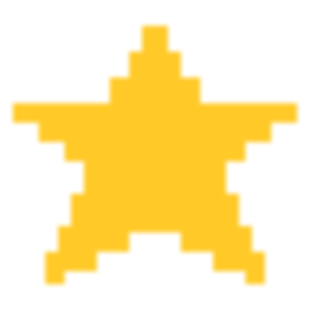
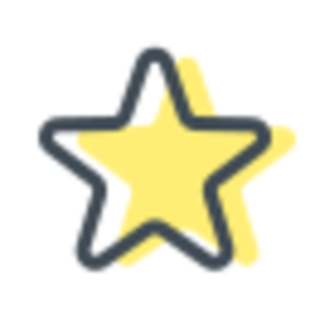
V1.1.0 update (#6)
* Added legends for symbols in courses, updated README, wording tweaks

* Added legend for IndexEditOverview

* Clearer screenshots

* Update README.md

* Updated screenshots

* Update README.md

* Added loading message to spinner

* Edited changelog

* Updated version on SettingsPage

* Updated favicon

* Updated changelog

* fixed crash when courses with no lessons are selected

* changed DataRetriever to use live api

* Added popover for legend in course database

* Tweaked button for legend

* Tidier code for button

* Updated screenshots

diff --git a/client/src/components/CourseDatabase.js b/client/src/components/CourseDatabase.js
@@ -1,5 +1,6 @@
 import React, { useState, useContext } from 'react';
 
+import Container from 'react-bootstrap/Container';
 import Row from 'react-bootstrap/Row';
 import Col from 'react-bootstrap/Col';
 import Card from 'react-bootstrap/Card';
@@ -7,6 +8,8 @@ import ListGroup from 'react-bootstrap/ListGroup';
 import Button from 'react-bootstrap/Button';
 import Spinner from 'react-bootstrap/Spinner';
 import Form from 'react-bootstrap/Form';
+import OverlayTrigger from 'react-bootstrap/OverlayTrigger';
+import Popover from 'react-bootstrap/Popover';
 
 import { SelectedCoursesContext } from '../contexts/SelectedCoursesContext';
 import { CoursesContext } from '../contexts/CoursesContext';
@@ -14,9 +17,6 @@ import { CustomisationContext } from '../contexts/CustomisationContext';
 
 function CourseDatabase() {
 
-  /* courses -> List of ALL courses in NTU, retrieved from server
-     acadSem -> Current semester in NTU
-     addSelection -> For adding course to currently selected courses  */
   const { addSelection } = useContext(SelectedCoursesContext);
   const { courses, acadSem } = useContext(CoursesContext);
   const { customOptions } = useContext(CustomisationContext);
@@ -30,16 +30,25 @@ function CourseDatabase() {
   const dynamicSearch = () => {
     return courses.filter(course => course.courseName.toLowerCase().includes(searchTerm.toLowerCase()) || course.courseCode.toLowerCase().includes(searchTerm.toLowerCase()));
   }
+
+  const popover = (
+    <Popover id="popover-basic">
+      <Popover.Header as="h3">Legend</Popover.Header>
+      <Popover.Body style={{whiteSpace:"pre-line"}}>
+        {"* : Available as UEs\n~ : Available as BDEs\n^ : Self-paced Course\n# : Available as GERPEs"}
+      </Popover.Body>
+    </Popover>
+  );
   
   return (
     <Card className={`retrievedCourses ${customOptions.displaySetting}`} style={{height: "30rem"}} border={customOptions.displaySetting === "lightMode" ? "" : "secondary"}>
       <Card.Header className="database-title font-weight-bold">
         <Row className="align-items-center">
-          <Col sm={8} xs={9}> 
+          <Col sm={7} xs={9}> 
             Courses Available 
             { acadSem ? ` (AY${acadSem.year}-${((parseInt(acadSem.year)+1)+"").substring(2)} Sem ${acadSem.sem})` : ""}
           </Col>
-          <Col sm={4} xs={12}>
+          <Col sm={4} xs={10}>
             <Form className="d-flex ml-auto">
               <Form.Control 
               placeholder="Search course code/name" 
@@ -47,12 +56,32 @@ function CourseDatabase() {
               onChange={handleInput} />
             </Form>
           </Col>
+          <Col sm={1} xs={1} className="d-flex justify-content-center">
+            <OverlayTrigger
+              trigger="click"
+              placement="left"
+              delay={{ show: 250, hide: 400 }}
+              overlay={popover}
+            >
+              <Button 
+              size = "sm" 
+              variant="none" 
+              style={{fontWeight: "bold", color: "white", border: "1.5px solid white", borderRadius: "40px"}}>
+                &nbsp;?&nbsp;
+              </Button>
+            </OverlayTrigger>
+          </Col>
         </Row>
       </Card.Header>
       {courses.length === 0 ? 
-        <Spinner animation="border" role="status" variant="secondary" style={{ margin: 'auto' }}>
-          <span className="sr-only">Loading...</span>
-        </Spinner> :
+        <Container className="d-flex flex-column justify-content-center align-items-center h-100">
+          <Spinner animation="grow" role="status" variant="secondary">
+            <span className="sr-only">Loading...</span>
+          </Spinner> 
+          <Row className="text-center pt-1">
+            Almost there...
+          </Row>
+        </Container> :
 
         <ListGroup variant="flush" className="overflow-auto">
           {dynamicSearch().map(course => {

diff --git a/client/src/pages/SettingsPage.js b/client/src/pages/SettingsPage.js
@@ -3,7 +3,7 @@ import React, { useContext, useState } from 'react';
 import Container from 'react-bootstrap/Container';
 import Row from 'react-bootstrap/Row';
 import Form from 'react-bootstrap/Form';
-import ListGroup from 'react-bootstrap/ListGroup'
+import ListGroup from 'react-bootstrap/ListGroup';
 
 import { CustomisationContext } from '../contexts/CustomisationContext';
 
@@ -58,7 +58,7 @@ function SettingsPage() {
         <ListGroup.Item className={customOptions.displaySetting}>Automatic Timetable Generation</ListGroup.Item>
         <ListGroup.Item className={customOptions.displaySetting}>Waitlist and Vacancy Details included (Only from 10am-10pm)</ListGroup.Item>
         <ListGroup.Item className={customOptions.displaySetting}>Fixing of Specific Indexes</ListGroup.Item>
-        <ListGroup.Item className={customOptions.displaySetting}>Editing of Timetable Plans</ListGroup.Item>
+        <ListGroup.Item className={customOptions.displaySetting}>Editing and Saving of Timetable Plans</ListGroup.Item>
         <ListGroup.Item className={customOptions.displaySetting}>Advanced Options: Choosing Free Times, No Back To Back Lessons</ListGroup.Item>
       </ListGroup>
 
@@ -82,7 +82,7 @@ function SettingsPage() {
         may the force be with you
       </Row>
       <Row className="d-flex justify-content-center font-italic">
-        ~ Build V1.0.0 ~
+        ~ Version 1.1.0 ~
       </Row>
       <Row className="d-flex justify-content-center font-italic">
         <span className="text-center">
@@ -98,7 +98,7 @@ function SettingsPage() {
       </Row>
       <Row className="d-flex justify-content-center font-italic pb-4">
         <span className="text-center">
-          <a target="_blank" rel="noopener noreferrer" href="https://icons8.com/icon/121624/pixel-star">Pixel Star</a>
+          <a target="_blank" rel="noopener noreferrer" href="https://icons8.com/icon/70836/star-filled">Star Filled</a>
           &nbsp;icon by&nbsp;
           <a target="_blank" rel="noopener noreferrer" href="https://icons8.com">Icons8</a>
         </span>

diff --git a/client/src/components/overviews/IndexEditOverview.js b/client/src/components/overviews/IndexEditOverview.js
@@ -3,6 +3,7 @@ import React, { useContext, useEffect, useState } from 'react';
 import Row from 'react-bootstrap/Row';
 import Col from 'react-bootstrap/Col';
 import Table from 'react-bootstrap/Table';
+import ListGroup from 'react-bootstrap/ListGroup';
 
 import { CurrentPlanContext } from '../../contexts/CurrentPlanContext';
 import { CustomisationContext } from '../../contexts/CustomisationContext';
@@ -59,7 +60,7 @@ function IndexEditOverview() {
           <tr>
             <th scope="col">#</th>
             <th scope="col">Index/Waitlist/Vacancy</th>
-            <th scope="col">Course Code and Name</th>
+            <th scope="col">Course Code/Name</th>
             <th scope="col">AUs</th>
             <th scope="col">Exam Timing</th>
           </tr>

diff --git a/client/src/components/PlanDetails.js b/client/src/components/PlanDetails.js
@@ -1,6 +1,7 @@
 import React, { useContext } from 'react';
 
 import Table from 'react-bootstrap/Table';
+import ListGroup from 'react-bootstrap/ListGroup';
 
 import { CurrentPlanContext } from '../contexts/CurrentPlanContext';
 import { CustomisationContext } from '../contexts/CustomisationContext';
@@ -17,7 +18,7 @@ function PlanDetails() {
             <tr>
                 <th scope="col">#</th>
                 <th scope="col">Index/Waitlist/Vacancy</th>
-                <th scope="col">Course Code and Name</th>
+                <th scope="col">Course Code/Name</th>
                 <th scope="col">AUs</th>
                 <th scope="col">Exam Timing</th>
             </tr>

diff --git a/client/src/pages/CourseSelectionPage.js b/client/src/pages/CourseSelectionPage.js
@@ -30,7 +30,7 @@ function CourseSelectionPage() {
   const [canGenerate, setCanGenerate] = useState(false);
   const [errorMessage, setErrorMessage] = useState({ header: null, details: null }); // for displaying why timetable could not be generated
   const [showError, setShowError] = useState(false);
-  const [buttonText, setButtonText] = useState("Generate plans!")
+  const [buttonText, setButtonText] = useState("Generate Plans!")
 
   const history = useHistory();
 
@@ -65,7 +65,7 @@ function CourseSelectionPage() {
         }
       }
     }
-    setButtonText("Generate plans!");
+    setButtonText("Generate Plans!");
     window.scrollTo(0, 0);
   }
 

diff --git a/client/src/components/timetable/Timetable.js b/client/src/components/timetable/Timetable.js
@@ -21,6 +21,7 @@ const COLORS = [
 
 function Timetable() {
   const { currentPlan } = useContext(CurrentPlanContext);
+  console.log(currentPlan);
   const allLessons = {
     MON: [],
     TUE: [],
@@ -32,7 +33,8 @@ function Timetable() {
   currentPlan.forEach((mod, i) => mod.index.lessons.forEach(lesson => {
     lesson.courseCode = mod.courseCode;
     lesson.color = COLORS[i];
-    allLessons[lesson.day].push(lesson);
+    if (allLessons[lesson.day]) // online courses like 1AU ones have no actual lessons
+      allLessons[lesson.day].push(lesson);
   }));
   // identify all overlapping lessons
   Object.values(allLessons).forEach(lessons => {

diff --git a/client/src/services/useWindowDimension.js b/client/src/services/useWindowDimension.js
@@ -1,6 +1,6 @@
 // credit https://stackoverflow.com/questions/19014250/rerender-view-on-browser-resize-with-react
 
-import React, { useLayoutEffect, useState } from 'react';
+import { useLayoutEffect, useState } from 'react';
 
 export function useWindowDimension() {
   const [size, setSize] = useState([0, 0]);

diff --git a/client/src/services/DataRetriever.js b/client/src/services/DataRetriever.js
@@ -1,6 +1,6 @@
 import axios from 'axios';
 
-const url = "http://localhost:5000/courses/";
+const url = "https://starspanel-api.herokuapp.com/courses/";
 
 export const fetchAllCourses = async () => {
      

diff --git a/client/src/App.css b/client/src/App.css
@@ -220,4 +220,8 @@
     width: 291vw;
     font-size: 2.4vw;
   }
+
+  .legend{
+    flex-direction: column;
+  }
 }

diff --git a/README.md b/README.md
@@ -1,20 +1,22 @@
 # ntu-stars-planner
 
-<img src="screenshots\timetablepage.JPG" alt="alt text" width="650" height="363">
-<br/>
-<img src="screenshots\coursespage.jpeg" alt="alt text" width="254" height="400">
-<br/>
-
 ## About The Project
 
 A course registration helper for NTU students, with useful features such as automatic timetable generation, editing and saving of plans.<br/>
 STARS-panel is also media-responsive! However, the timetable is best viewed on desktop screens.<br/>
+
 View the website here: [https://stars-panel.netlify.app/](https://stars-panel.netlify.app/)
-<br/>
+<br/><br/>
 
-## Screenshots
-
-
+<p float="left">
+  <img src="screenshots\timetablepage1.png" alt="desktop screenshot" width="45%" height="45%">
+  <img src="screenshots\timetablepage2.png" alt="desktop screenshot 2" width="45%" height="45%">
+</p>
+<p float="left">
+  <img src="screenshots\phonescreenshot1.png" alt="phone screenshot" width="15%" height="15%">
+                        
+  <img src="screenshots\tabletscreenshot1.png" alt="tablet screenshot" width="43%" height="43%">
+</p>
 
 ## Features
 
@@ -23,7 +25,7 @@ View the website here: [https://stars-panel.netlify.app/](https://stars-panel.ne
 - Fixing of Specific Indexes
 - Editing and Saving of Timetable Plans
 - Advanced Options: No Back-To-Back Lessons, Choose Free Times
-<br/>
+- Dark and Light Modes
 
 ## Built With
 
@@ -34,7 +36,6 @@ View the website here: [https://stars-panel.netlify.app/](https://stars-panel.ne
 - Bootstrap
 - Netlify
 - Heroku
-<br/>
 
 ## Feedback
 
@@ -42,6 +43,5 @@ Should you encounter any issues, please kindly help us by reporting it here.
 <br/>
 
 ## Authors
-
-Chong Shen Rui<br/>
-Toh Jun Wei
+[Chong Shen Rui](https://github.com/ruiofshens)<br/>
+[Toh Jun Wei](https://github.com/junwei-tj)

diff --git a/CHANGELOG.md b/CHANGELOG.md
@@ -9,9 +9,19 @@ Any new suggestions are welcomed.
 
 ## [1.1.0] - 2021-08-08
 
+### Added
+
+- popover for legend for symbols in course names in CourseDatabase
+- loading message for spinner in CourseDatabase
+
+### Changed
+
+- favicon
+
 ### Fixed
 
 - bug where 2 lessons with no teaching weeks at the same time do not register as clashing
+- bug for rendering of 1AU mods with no lessons
 
 ### Removed
 
